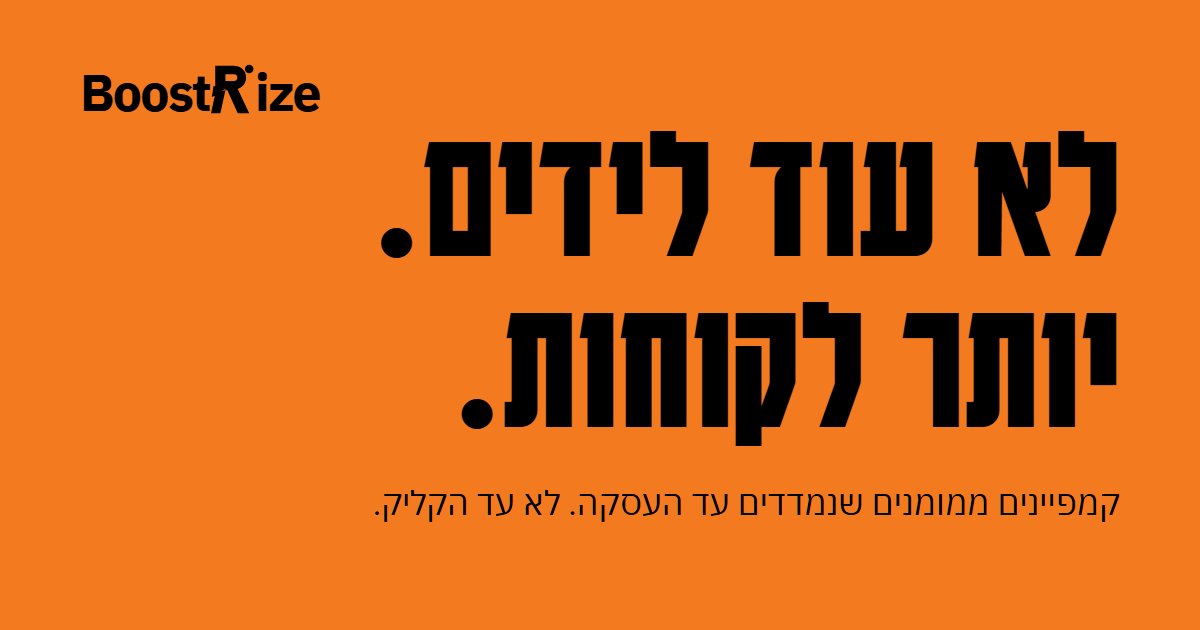
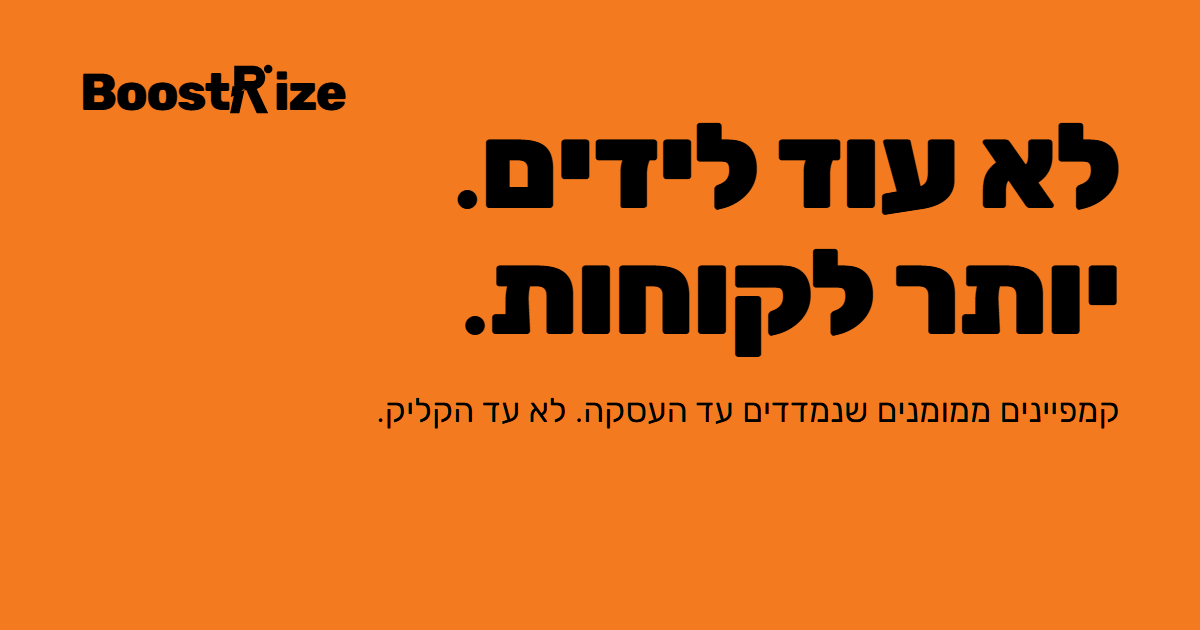
Switch typeface to Rubik (closest free match to Ploni); rescale type; OG image in Rubik

Changed region(s): [[0.3083, 0.181, 0.9558, 0.7238], [0.3083, 0.7841, 0.9558, 0.8143], [0.0617, 0.0905, 0.3083, 0.181]]

diff --git a/src/styles/global.css b/src/styles/global.css
@@ -18,17 +18,17 @@
   --success: #12733f;
 
   /* ---- Type ---- */
-  --display: 'Karantina', 'Arial Narrow', sans-serif;
-  --text: 'IBM Plex Sans Hebrew', system-ui, -apple-system, 'Segoe UI', Arial, sans-serif;
+  --display: 'Rubik Variable', 'Rubik', system-ui, -apple-system, 'Segoe UI', Arial, sans-serif;
+  --text: 'Rubik Variable', 'Rubik', system-ui, -apple-system, 'Segoe UI', Arial, sans-serif;
 
   /* Scale (ratio ≈ 1.25 for text, poster jumps for display) */
   --t-sm: 0.875rem;
   --t-base: 1.0625rem;
   --t-md: 1.25rem;
   --t-lg: 1.5rem;
-  --d-sm: clamp(2.25rem, 1.6rem + 2.4vw, 3.25rem);   /* sub-display */
-  --d-md: clamp(3rem, 1.9rem + 4.4vw, 5.5rem);        /* section headlines */
-  --d-xl: clamp(5rem, 2.4rem + 8.6vw, 10rem);         /* billboard */
+  --d-sm: clamp(1.5rem, 1.25rem + 1vw, 2rem);       /* sub-display */
+  --d-md: clamp(2rem, 1.4rem + 2.4vw, 3.4rem);        /* section headlines */
+  --d-xl: clamp(2.6rem, 1.5rem + 4.6vw, 5.4rem);     /* billboard */
 
   /* ---- Space ---- */
   --gutter: clamp(1rem, 0.4rem + 2.6vw, 3rem);
@@ -60,7 +60,7 @@ button { cursor: pointer; }
 a { color: inherit; }
 a, button, summary, input, select, label { touch-action: manipulation; -webkit-tap-highlight-color: transparent; }
 h1, h2, h3 { text-wrap: balance; }
-h1 { font-family: var(--display); font-weight: 700; line-height: 0.95; }
+h1 { font-family: var(--display); font-weight: 900; line-height: 1.05; letter-spacing: -0.02em; }
 p { text-wrap: pretty; }
 ul[role='list'], ol[role='list'] { list-style: none; padding: 0; }
 ::selection { background: var(--orange); color: var(--black); }
@@ -79,9 +79,9 @@ ul[role='list'], ol[role='list'] { list-style: none; padding: 0; }
 
 /* Display type – the billboard voice */
 .display {
-  font-family: var(--display); font-weight: 700; line-height: 0.92; letter-spacing: 0;
+  font-family: var(--display); font-weight: 900; line-height: 1.05; letter-spacing: -0.02em;
 }
-.h-section { font-family: var(--display); font-weight: 700; font-size: var(--d-md); line-height: 0.95; max-width: 16ch; }
+.h-section { font-family: var(--display); font-weight: 900; font-size: var(--d-md); line-height: 1.1; letter-spacing: -0.02em; max-width: 20ch; }
 .lede { font-size: var(--t-md); line-height: 1.55; color: var(--slate); max-width: 46ch; }
 .band--black .lede { color: #b9bec5; }
 .band--orange .lede { color: var(--black); }

diff --git a/src/content/quiz.ts b/src/content/quiz.ts
@@ -7,7 +7,7 @@
  * ============================================================
  */
 export const quiz = {
-  title: 'איפה השיווק נתקע אצלכם?',
+  title: 'בדיקה בדקה לשיווק שלכם',
   subtitle: 'שאלון קצר, פחות מדקה. בסוף תשלחו לנו את התשובות בוואטסאפ, ונחזור עם כיוון ראשון לשיפור.',
   steps: {
     stuck: {
